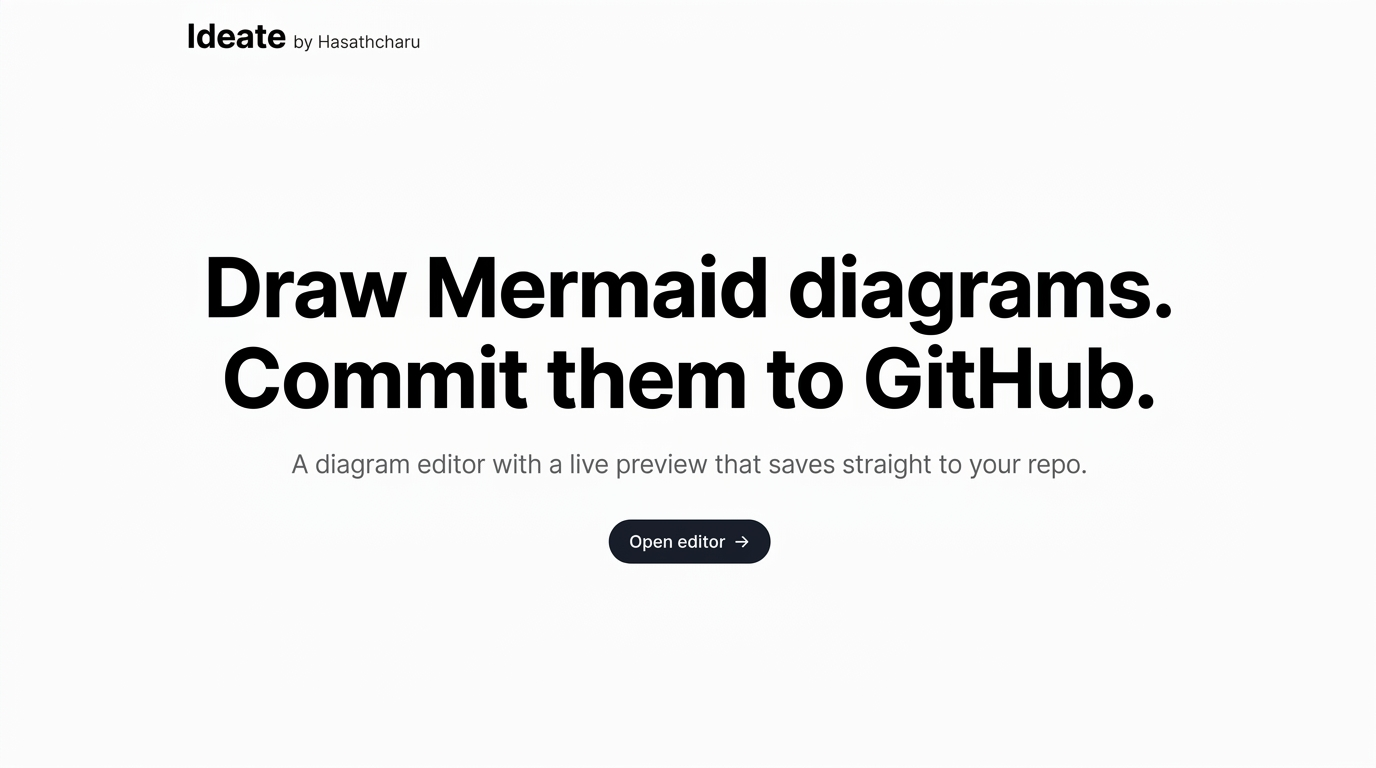
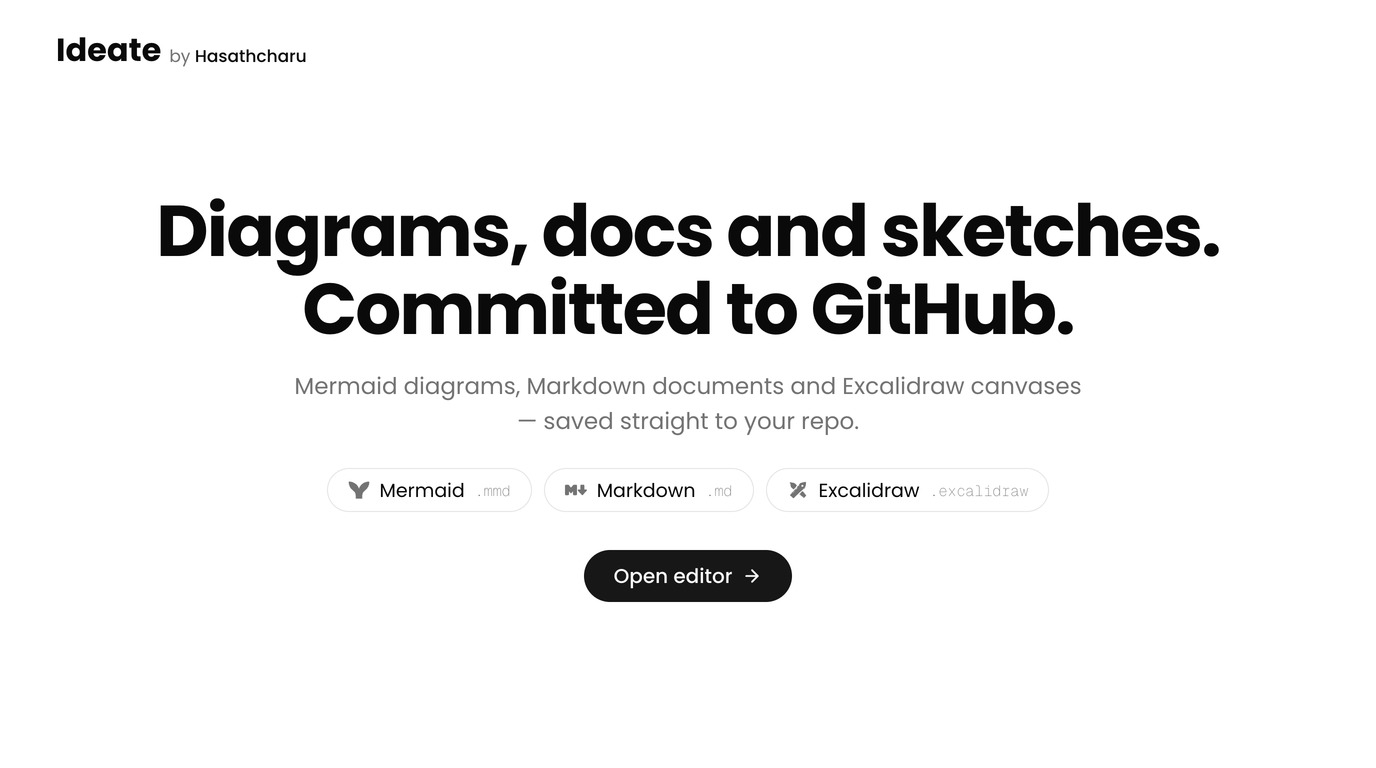
feat: update landing page to include document types and enhance descriptions

Changed region(s): [[0.0938, 0.25, 0.9062, 0.5625], [0.2188, 0.5938, 0.7812, 0.7812], [0.0312, 0.0312, 0.3125, 0.0938]]

diff --git a/components/Landing.tsx b/components/Landing.tsx
@@ -3,9 +3,25 @@
 import Link from 'next/link'
 import { ArrowRight, Pencil, TriangleAlert } from 'lucide-react'
 import { loginWithGitHub } from '@/app/actions/auth'
-import { GithubIcon } from '@/components/icons'
+import {
+  ExcalidrawIcon,
+  GithubIcon,
+  MarkdownIcon,
+  MermaidIcon,
+} from '@/components/icons'
 import { APP_NAME } from '@/lib/config'
 import { Button } from '@/components/ui/button'
+
+/**
+ * The three document kinds, in the order the editor's own toggle lists them.
+ * Each carries its project's own mark (see `components/icons.tsx`) — bare glyphs
+ * in `currentColor`, so the row reads as one family under the active theme.
+ */
+const KINDS = [
+  { icon: MermaidIcon, label: 'Mermaid', ext: '.mmd' },
+  { icon: MarkdownIcon, label: 'Markdown', ext: '.md' },
+  { icon: ExcalidrawIcon, label: 'Excalidraw', ext: '.excalidraw' },
+]
 
 export default function Landing({ signedIn }: { signedIn: boolean }) {
   return (
@@ -31,13 +47,26 @@ export default function Landing({ signedIn }: { signedIn: boolean }) {
       </header>
 
       <main className="mx-auto flex w-full max-w-2xl flex-1 flex-col items-center justify-center px-6 pb-24 text-center">
-    <h1 className="text-4xl leading-tight font-bold tracking-tight md:text-5xl">
-          Draw Mermaid diagrams. Commit them to GitHub.
+        <h1 className="text-4xl leading-tight font-bold tracking-tight md:text-5xl">
+          Diagrams, docs and sketches. Committed to GitHub.
         </h1>
         <p className="mt-4 max-w-md text-muted-foreground">
-          A diagram editor with a live preview that saves straight to your
-          repo — every commit is a version you can revisit.
+          Mermaid diagrams, Markdown documents and Excalidraw canvases — edited
+          with a live preview and saved straight to your repo, where every commit
+          is a version you can revisit.
         </p>
+        <ul className="mt-6 flex flex-wrap items-center justify-center gap-2">
+          {KINDS.map(({ icon: Icon, label, ext }) => (
+            <li
+              key={ext}
+              className="flex items-center gap-2 rounded-full border bg-card px-3 py-1.5 text-sm text-card-foreground"
+            >
+              <Icon className="size-4 shrink-0 text-muted-foreground" />
+              {label}
+              <span className="font-mono text-xs text-muted-foreground">{ext}</span>
+            </li>
+          ))}
+        </ul>
         <div className="mt-8 flex flex-col gap-3 sm:flex-row">
           {signedIn ? (
             <Button asChild size="lg">

diff --git a/app/layout.tsx b/app/layout.tsx
@@ -16,7 +16,7 @@ const geistMono = Geist_Mono({ subsets: ['latin'], variable: '--font-mono' })
 export const metadata: Metadata = {
   title: APP_NAME,
   description:
-    'A Mermaid diagram editor where your GitHub repository is the database.',
+    'A diagram, Markdown and canvas editor where your GitHub repository is the database.',
 }
 
 export default function RootLayout({
